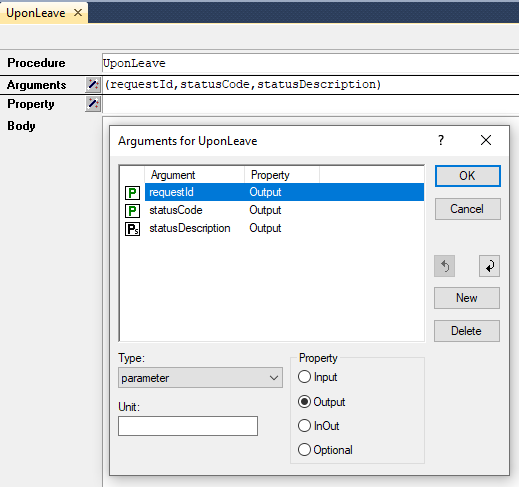
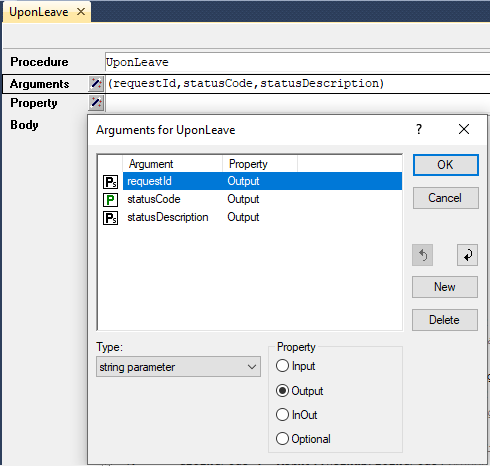
correction on Procedure for Restricting Page Navigation

Changed region(s): [[0.0, 0.0, 1.0, 1.0]]

diff --git a/webui/page-settings.rst b/webui/page-settings.rst
@@ -33,7 +33,7 @@ A procedure that can be called when a page change is requested. It should determ
 
 The  procedure should have three arguments, in the exact order below:
 
-* An Output parameter called :token:`requestId` that should contain the return value of the parameter RequestCounter.
+* An Output string parameter called :token:`requestId` that should contain the return value of the parameter RequestCounter.
 * An Output parameter called :token:`statusCode` representing the return value of the procedure.
 * An Output string parameter called :token:`statusDescription` that should contain a return message for the end-user.
 
